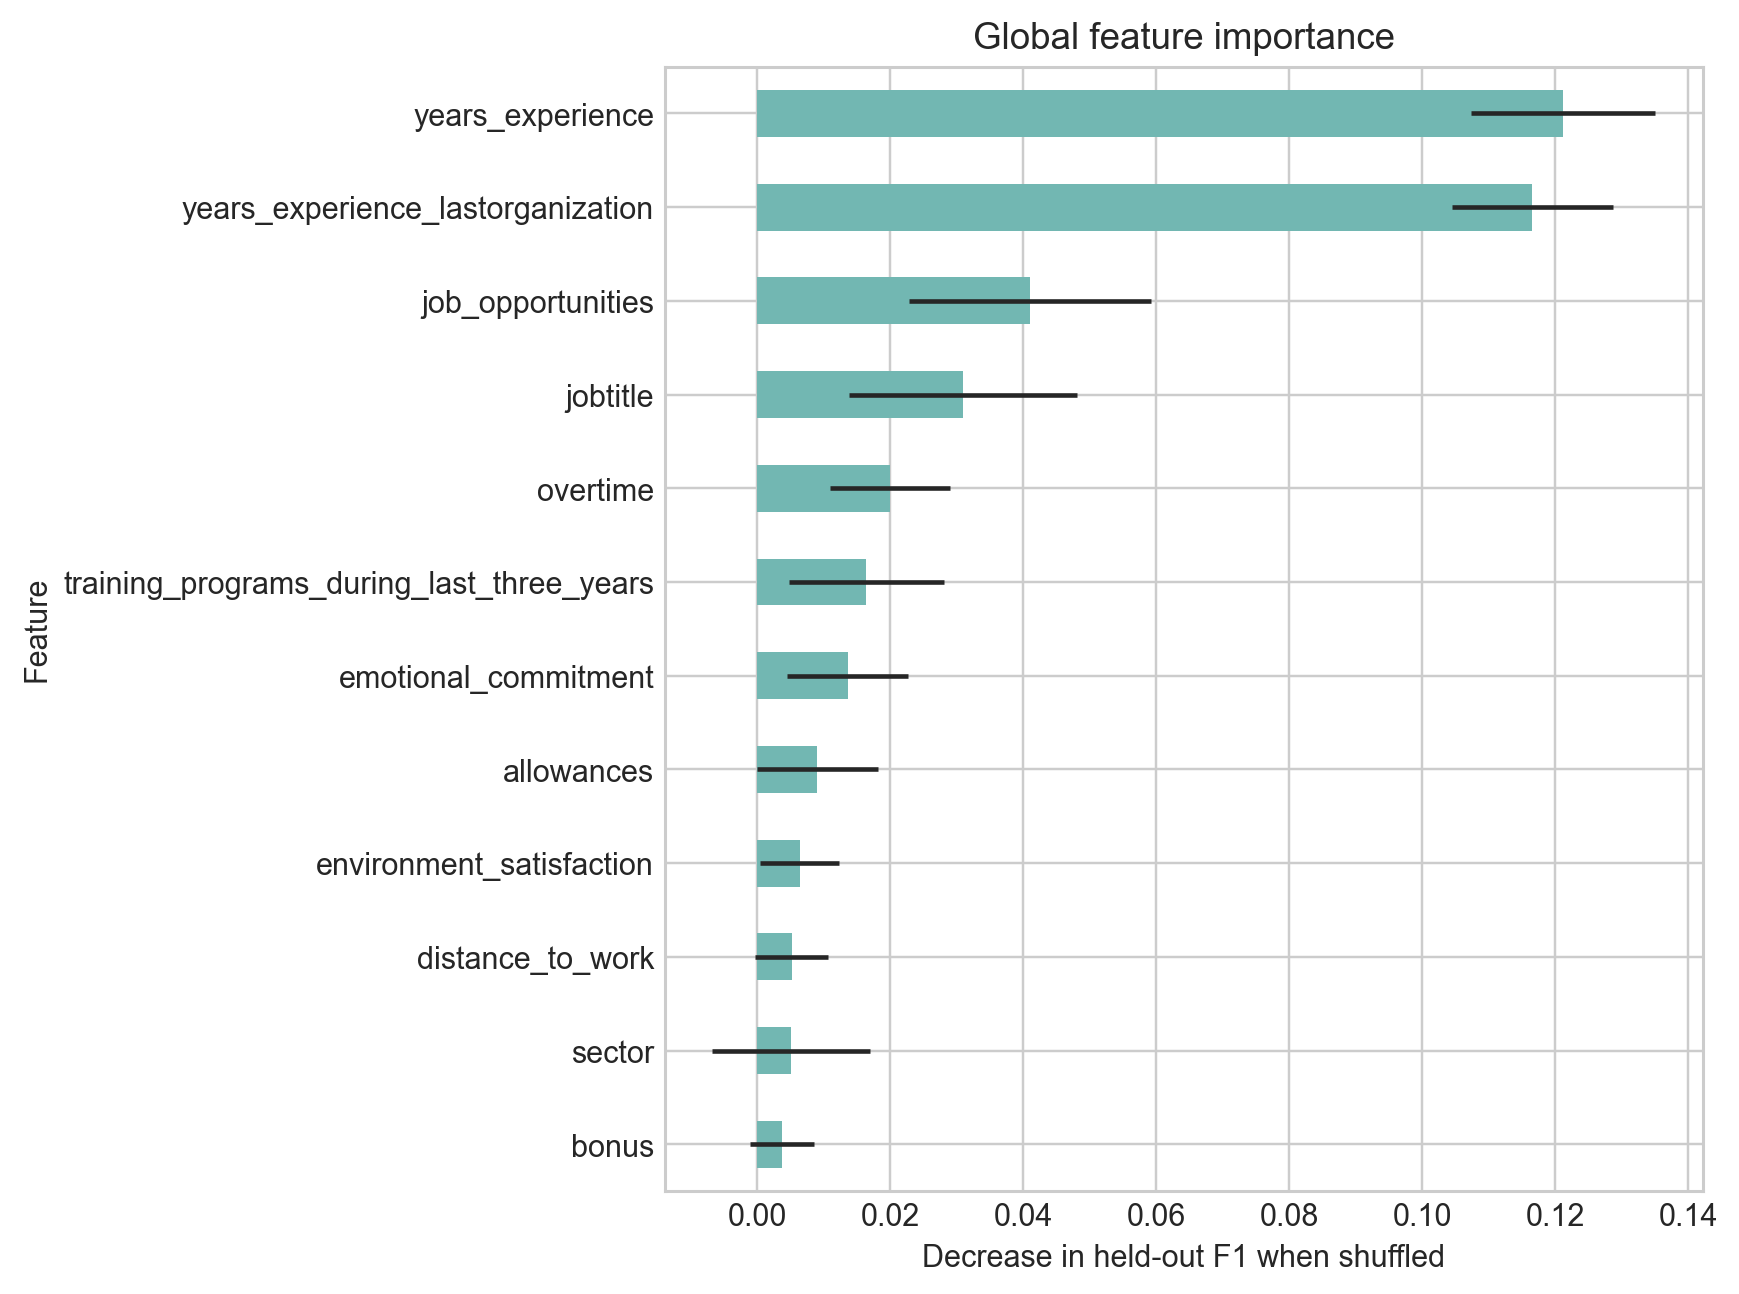
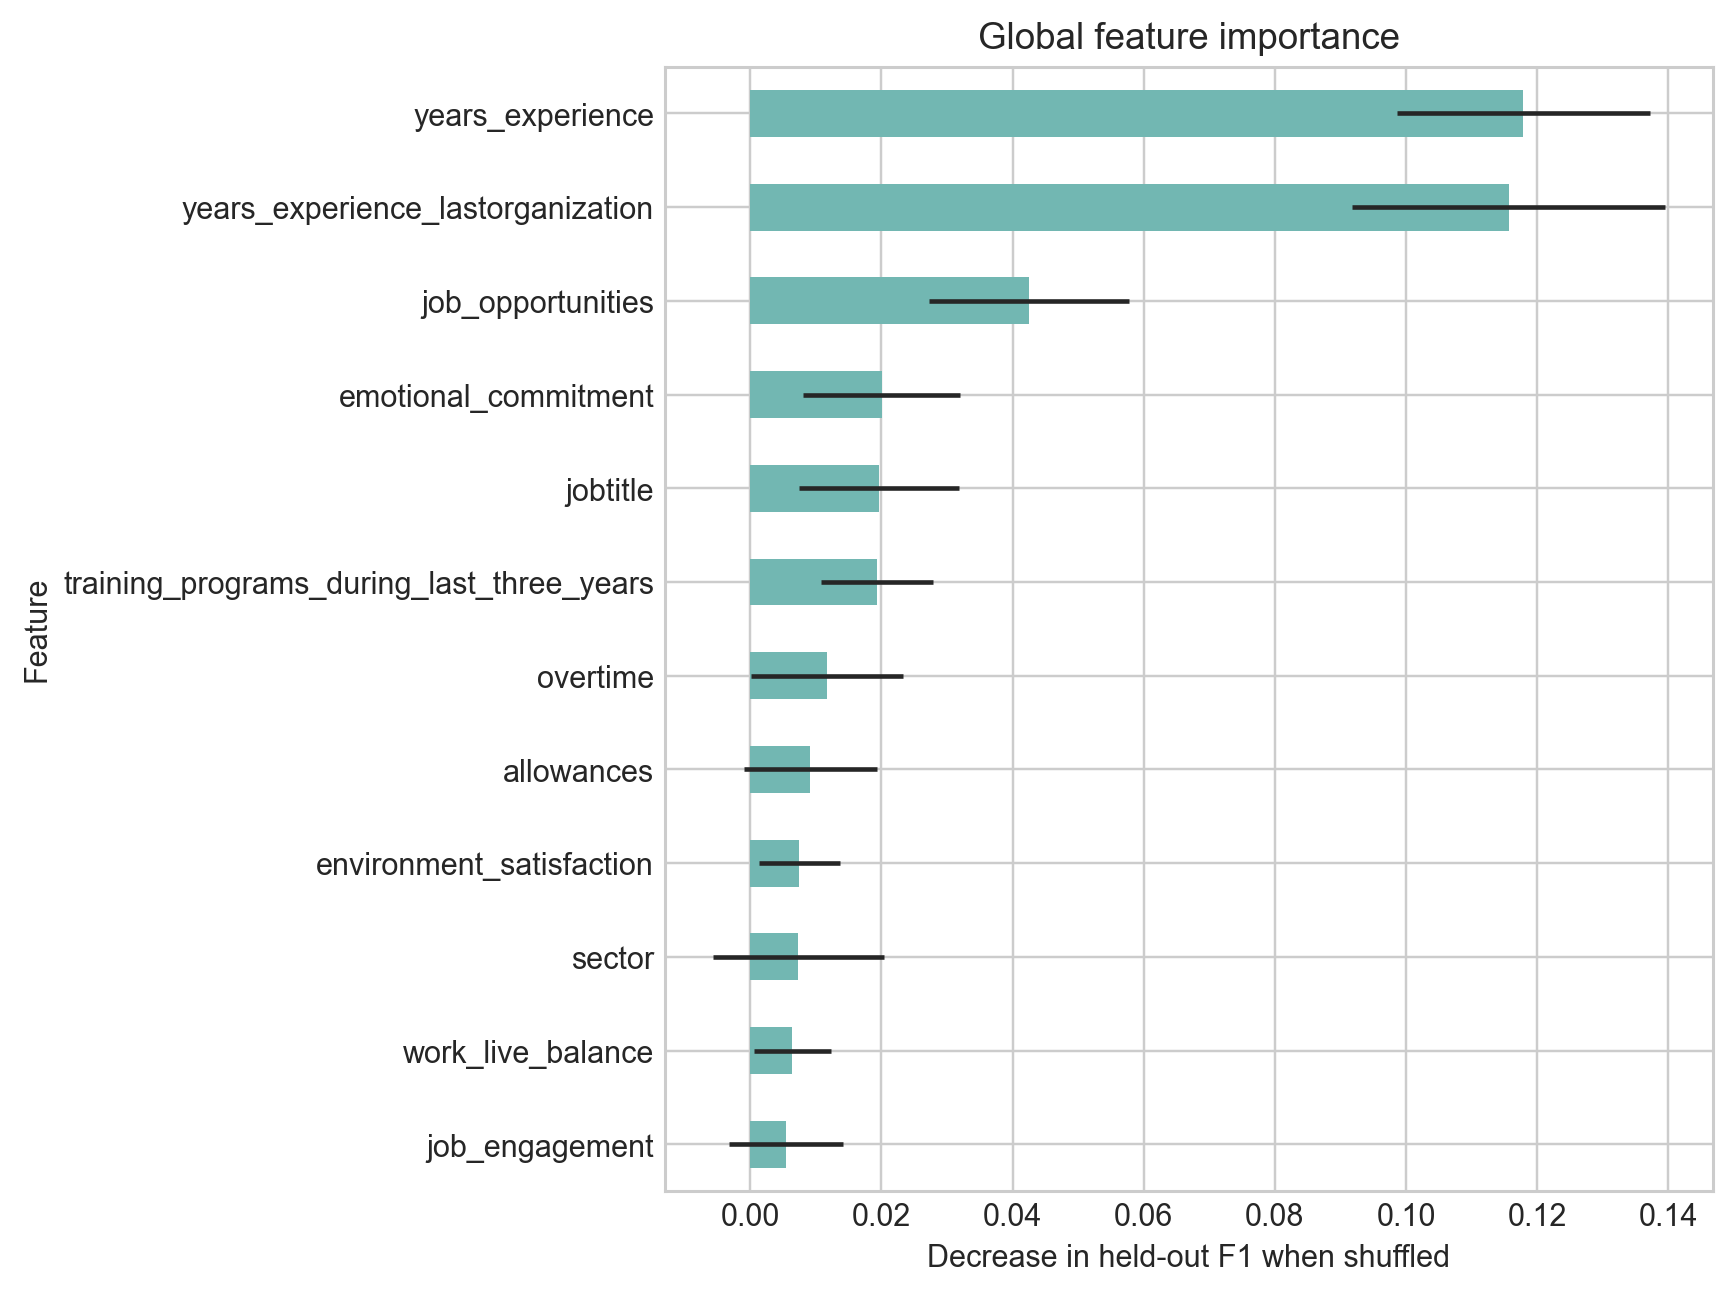
Update risk review display and enhance feature importance captions for clarity

diff --git a/app.py b/app.py
@@ -156,9 +156,12 @@ with risk_left:
     st.metric("High-risk test records", high_risk_count)
     st.caption(f"Threshold: {risk_threshold:.0%}")
 with risk_right:
+    # Keep classification probabilities on 0–1; scale only the displayed table.
+    displayed_risk_review = filtered_risk_review.sort_values("attrition_risk", ascending=False).copy()
+    displayed_risk_review["attrition_risk"] *= 100
     st.dataframe(
-        filtered_risk_review.sort_values("attrition_risk", ascending=False),
-        column_config={"attrition_risk": st.column_config.ProgressColumn("Predicted risk", min_value=0.0, max_value=1.0, format="%.0f%%")},
+        displayed_risk_review,
+        column_config={"attrition_risk": st.column_config.ProgressColumn("Predicted risk", min_value=0.0, max_value=100.0, format="%.1f%%")},
         width="stretch",
         hide_index=True,
     )
@@ -169,9 +172,14 @@ st.plotly_chart(
     px.bar(importance, x="importance_mean", y="feature", orientation="h", error_x="importance_std", title="Global feature importance", labels={"importance_mean": "Decrease in F1 when shuffled", "feature": "Feature"}),
     width="stretch",
 )
-st.caption("Permutation importance describes predictive association in this dataset. It does not prove that a factor causes attrition.")
+st.caption(f"Feature importance: {analysis.best_model_name}, evaluated on all {len(analysis.x_test):,} held-out test records, independent of sidebar filters. Permutation importance describes predictive association, not causation.")
 
 st.subheader("Fairness and responsible use")
+st.caption(
+    f"Fairness tables: all {len(analysis.x_test):,} held-out test records, "
+    f"using {analysis.best_model_name} at the model’s default 50% decision threshold. "
+    "Sidebar filters and the high-risk threshold slider do not change these tables."
+)
 fairness_tabs = st.tabs(["Gender", "Age group", "Data quality"])
 with fairness_tabs[0]:
     st.dataframe(fairness_by_group(analysis, frame, "gender").style.format({"predicted_high_risk_rate": "{:.1%}", "recall": "{:.1%}", "false_positive_rate": "{:.1%}"}), width="stretch", hide_index=True)
